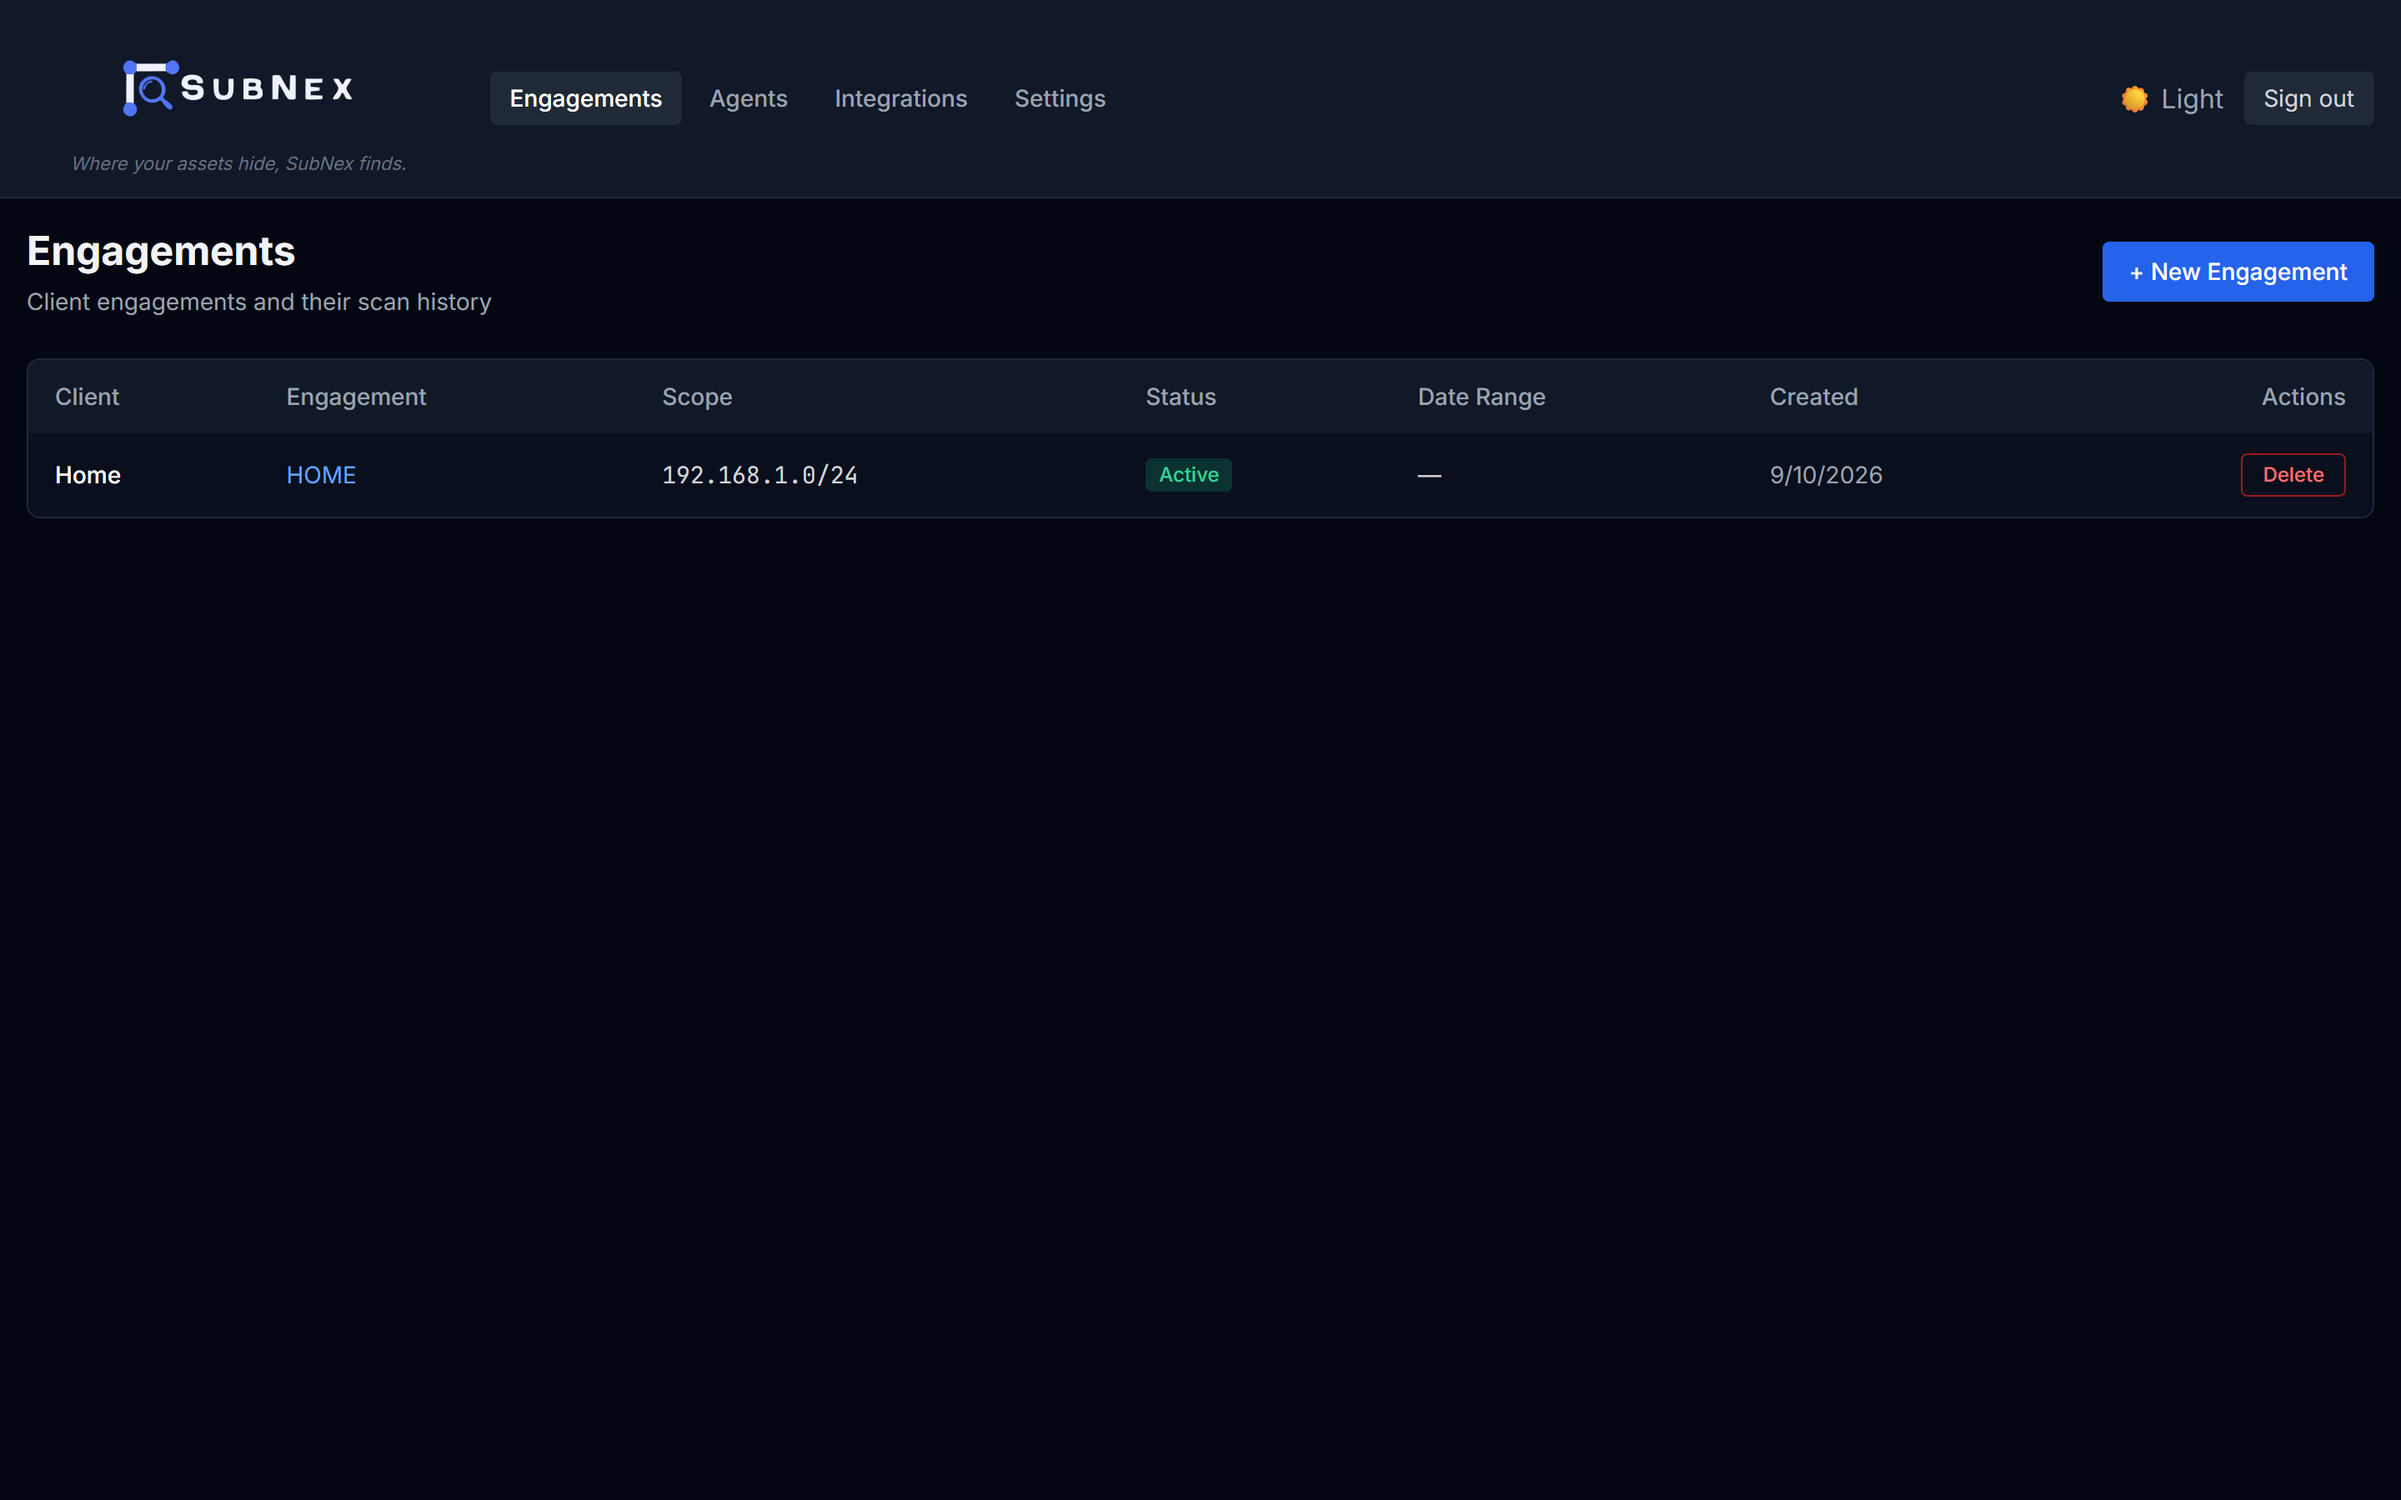
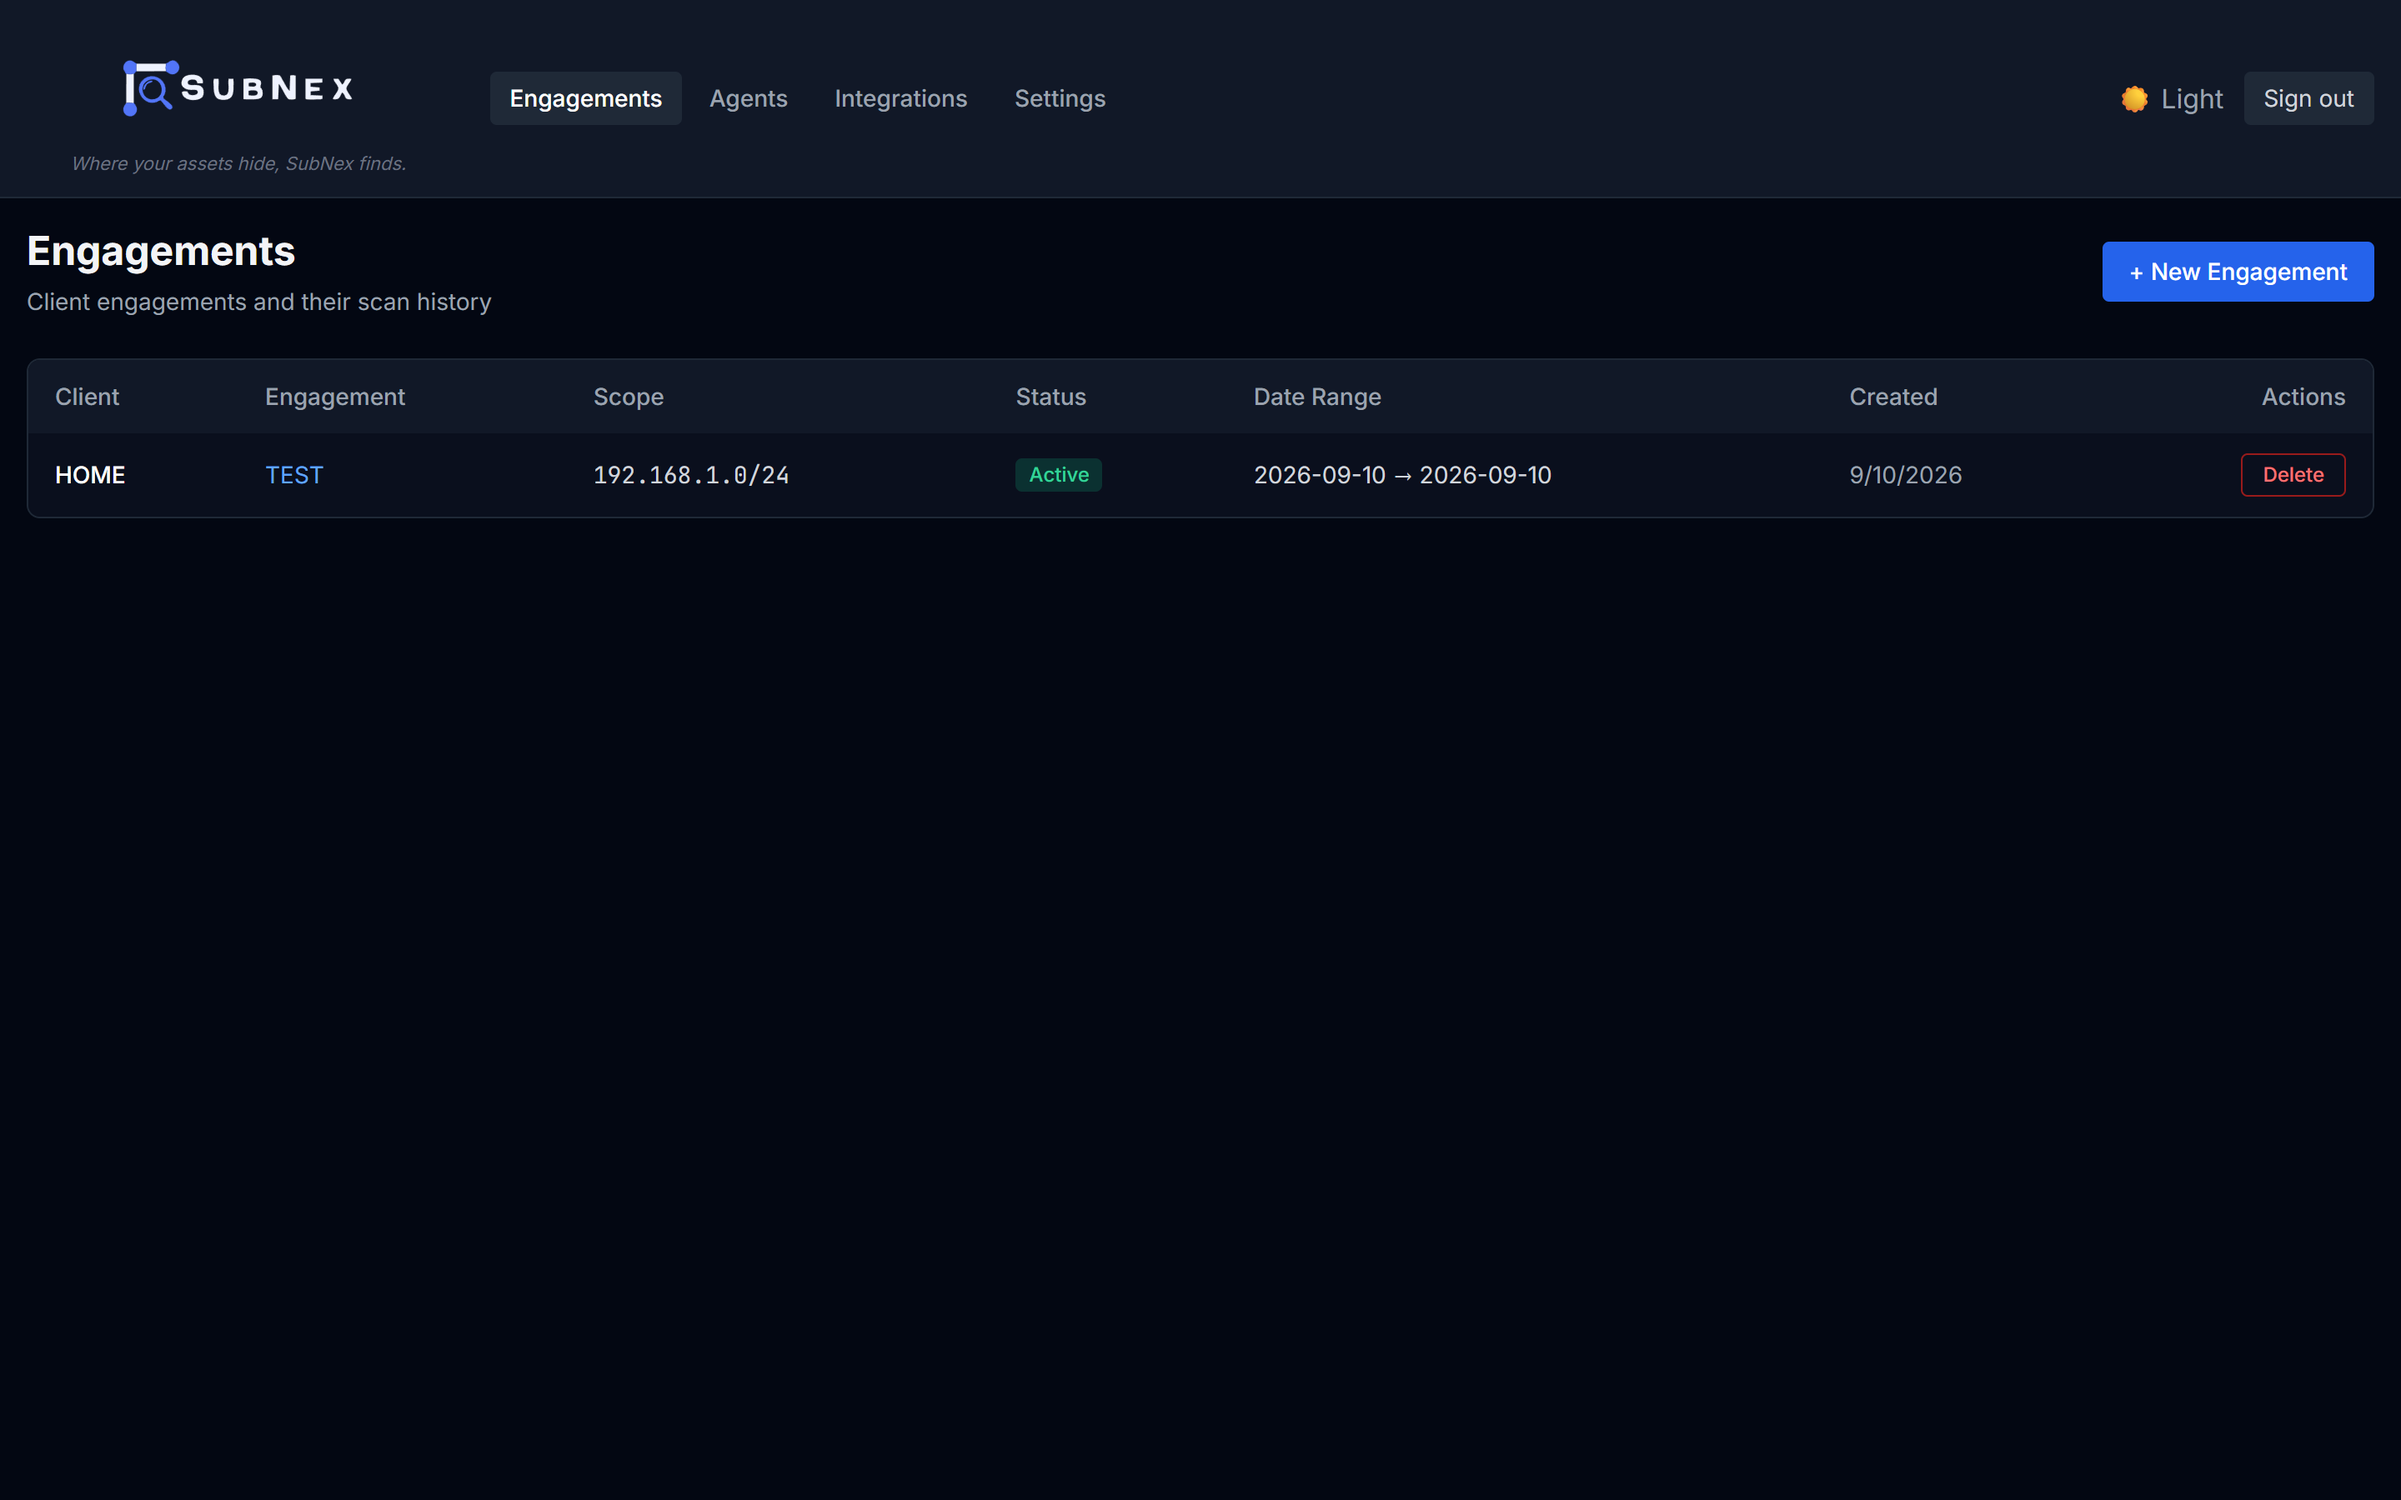
Redact and refresh screenshots

diff --git a/README.md b/README.md
@@ -341,7 +341,7 @@ Windows). If it's missing, the agent logs once and continues active-only — it 
 always best-effort. Passive evidence is merged **fill-if-blank**: a stronger
 `nmap -O` / SNMP result always wins.
 
-**Verified behaviour** (live run against `192.168.1.0/24`, shown in the screenshots above): an agent on the Windows LAN produced **43 live hosts** that the L3-only container could not characterize — real **MAC + vendor** bindings (Hikvision / Dahua / Uniview cameras, Xiaomi, Apple, Cisco, CyberTAN…), **hostnames** via mDNS/DHCP (e.g. the `DS-2CD1023G0E-20230404AAWRL…` camera names), exact **OS** fingerprints (Windows 11 24H2, macOS/iOS 16–17, Linux 4.15–5.19), **92 open ports** across 32 hosts, and **34 risk findings**. The PDF export of that scan is pictured in the screenshot gallery above.
+**Verified behaviour** (live run against `192.168.1.0/24`, shown in the screenshots above): an agent on the Windows LAN produced **16 live hosts** that the L3-only container could not characterize — device taxonomy (`router`, `wireless_access_point`, `physical_server`, `laptop`, `smartphone`), **12 open ports**, and **4 findings** (1 concerning, 1 notable, 2 info) over a quick `discover` run. Modern phones/tablets here ship with **privacy-randomised MACs** (the pictures blur them), so the agent recovered names from DHCP/mDNS traffic instead. The PDF export of that scan is pictured in the screenshot gallery above.
 
 ---
 
